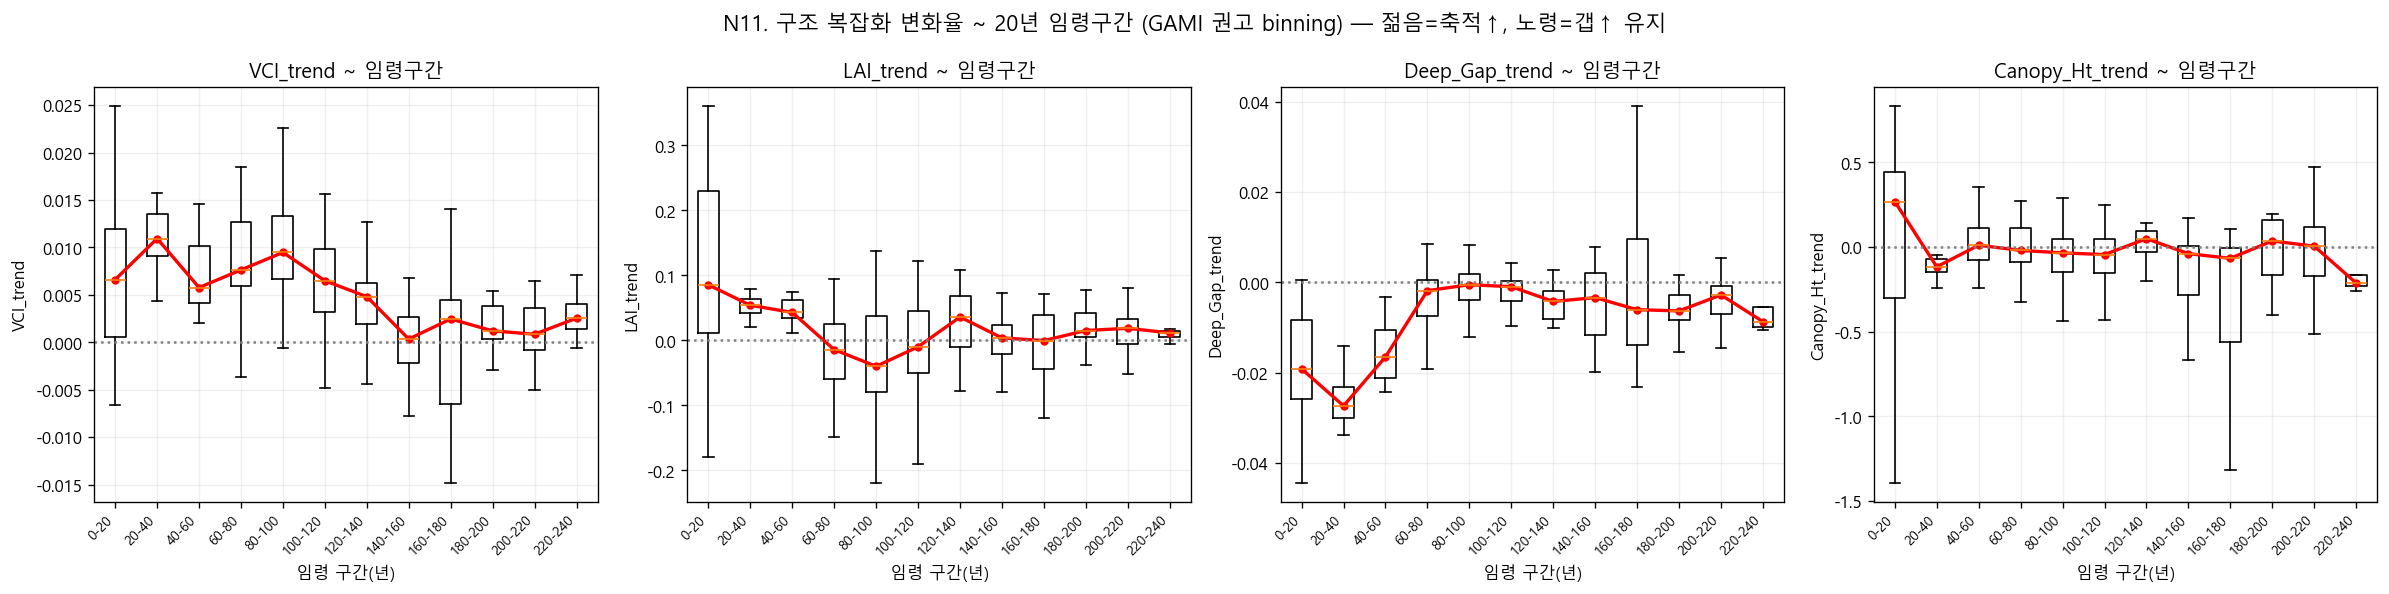
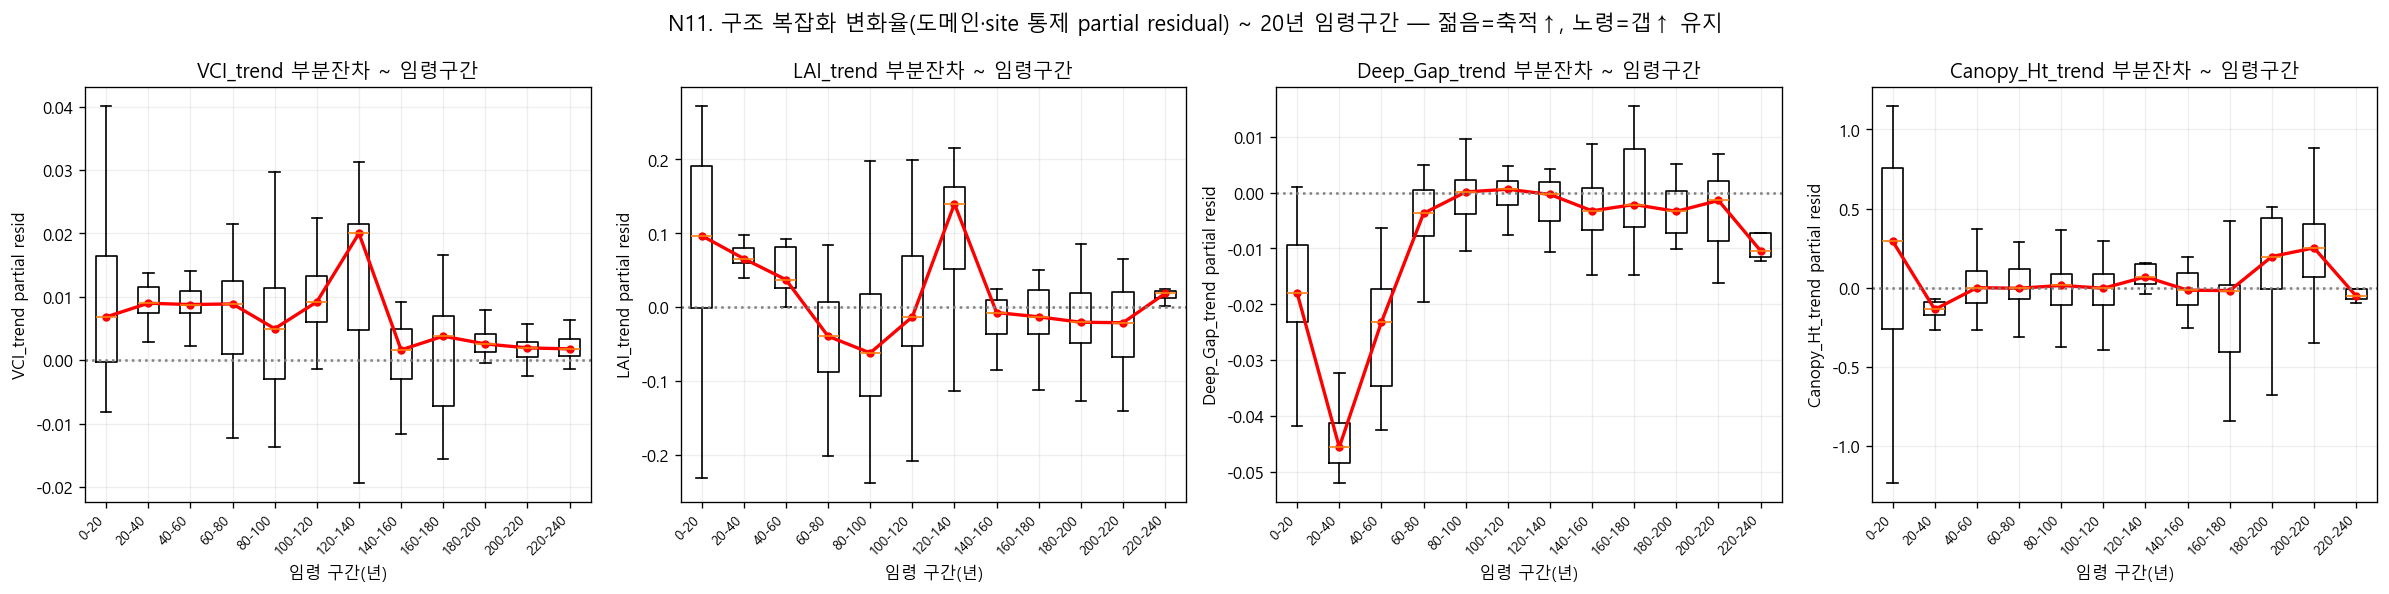
N11: switch to partial-residual boxplots (domain+site controlled)
Boxplot the domain-fixed + site-random-adjusted residual of each structural
trend by 20yr age bin, matching N04's partial-regression control (was raw
distribution). Age gradient holds net of confounds: young bins elevated for
VCI/LAI/Canopy_Ht (accumulation), strongly negative Deep_Gap resid in young
(gap-closing) rising to ~0 in old.

diff --git a/NEON_v2/scripts/obj23/148_age_binned.py b/NEON_v2/scripts/obj23/148_age_binned.py
@@ -63,17 +63,28 @@ sig=md[md.p_int<0.05].sort_values('p_int')
 print(f"  {len(sig)}/{len(md)} 유의:")
 for _,x in sig.iterrows(): print(f"    {x.response:10s} ~ {x.rs:10s} x age  int={x.beta_int:+.3f} p={x.p_int:.2g}")
 
-# figure: 4 key structural trends by 20yr bin (boxplot)
+# figure: PARTIAL RESIDUAL of each key trend (domain fixed + site random removed), by 20yr bin
+def partial_resid(col):
+    """trend residual net of C(domain)+(1|site) — same control as N04."""
+    d=df[[col,'domain','siteID']].dropna().copy()
+    m=smf.mixedlm(f"{col} ~ C(domain)",d,groups=d.siteID).fit(reml=True,method='lbfgs')
+    fe=m.predict(d)
+    try:
+        rmap={s:float(v.iloc[0]) for s,v in m.random_effects.items()}; re=d.siteID.map(rmap).fillna(0).values
+    except Exception: re=np.zeros(len(d))
+    out=pd.Series(np.nan,index=df.index); out.loc[d.index]=d[col].values-(fe.values+re); return out
+
 KEY=[('VCI_trend','VCI'),('LAI_trend','LAI'),('Deep_Gap_trend','Deep_Gap'),('Canopy_Ht_trend','Canopy_Ht')]
+for t,_ in KEY: df[t+'_pr']=partial_resid(t)
 order=[b for b in df['age_bin'].cat.categories if (df.age_bin==b).sum()>0]
 fig,axes=plt.subplots(1,4,figsize=(20,5))
 for ax,(t,l) in zip(axes,KEY):
-    data=[df[df.age_bin==b][t].dropna().values for b in order]
+    pr=t+'_pr'; data=[df[df.age_bin==b][pr].dropna().values for b in order]
     ax.boxplot(data,showfliers=False)
     ax.set_xticklabels([f"{int(b.left)}-{int(b.right)}" for b in order],rotation=45,ha='right',fontsize=8)
-    mid=[(b.left+b.right)/2 for b in order]; med=[np.median(x) if len(x) else np.nan for x in data]
+    med=[np.median(x) if len(x) else np.nan for x in data]
     ax.plot(range(1,len(order)+1),med,'r-o',lw=2,ms=4)
-    ax.axhline(0,color='gray',ls=':'); ax.set_title(f"{l}_trend ~ 임령구간"); ax.set_xlabel("임령 구간(년)"); ax.set_ylabel(f"{t}"); ax.grid(alpha=.2)
-fig.suptitle("N11. 구조 복잡화 변화율 ~ 20년 임령구간 (GAMI 권고 binning) — 젊음=축적↑, 노령=갭↑ 유지",fontsize=13)
+    ax.axhline(0,color='gray',ls=':'); ax.set_title(f"{l}_trend 부분잔차 ~ 임령구간"); ax.set_xlabel("임령 구간(년)"); ax.set_ylabel(f"{t} partial resid"); ax.grid(alpha=.2)
+fig.suptitle("N11. 구조 복잡화 변화율(도메인·site 통제 partial residual) ~ 20년 임령구간 — 젊음=축적↑, 노령=갭↑ 유지",fontsize=13)
 fig.tight_layout(); fig.savefig(f"{F}/N11_age_binned_trends.png",dpi=120,bbox_inches='tight'); plt.close()
-print("\nsaved N11_age_binned_trends.png")
+print("\nsaved N11_age_binned_trends.png (partial residual)")